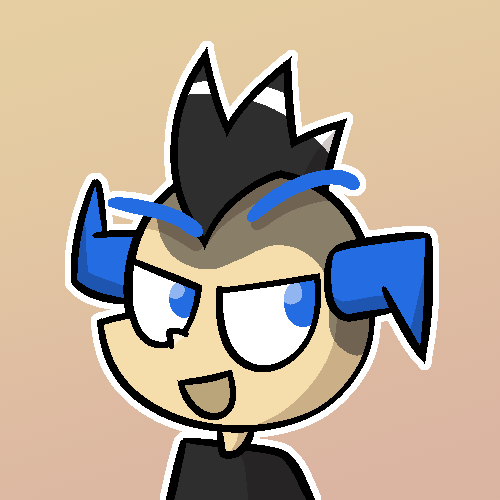
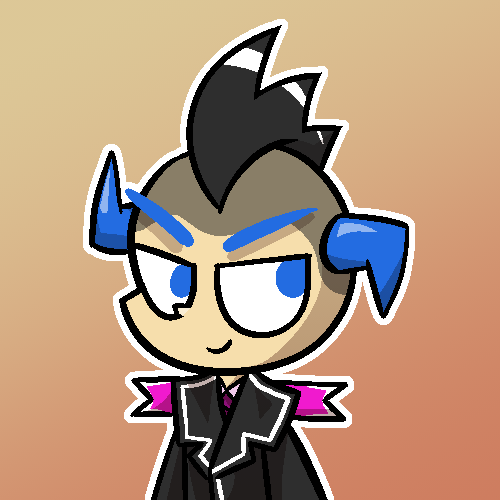
upd

diff --git a/css/characters.css b/css/characters.css
@@ -1,5 +1,6 @@
 h1,
 h2,
+h3,
 .attr>:nth-child(2n-1) {
 	color: var(--accent);
 }
@@ -47,8 +48,12 @@ blockquote {
 	object-fit: contain;
 }
 
-.card h3::before {
-	content: '';
+.card h3 {
+	color: var(--text);
+
+	&::before {
+		content: '';
+	}
 }
 
 .palette {

diff --git a/tir/stories/the-poker-spies.md b/tir/stories/the-poker-spies.md
@@ -62,7 +62,7 @@ This is still very brainstorm-y for now so bear with me! Any info subject to cha
 
 ## Start of the war
 
-Sky, having no experience in wartime state security — or state security in general for that matter, being freshly out of college and all. He was eager to work with his mentor Goose, mostly in interrogating the prisoners of war Bauhinia captured. When Goose was alone, the interrogations were messy, involved too much bleeding and screaming, and arguably counterproductive. With Sky, she was a lot more reserved, and Sky learned a lot.
+Sky, having no experience in wartime state security — or state security in general for that matter, being freshly out of training and all, a really new [Half-Noob](/world/bauhinia/mss/#rankings). He was eager to work with his mentor Goose, mostly in interrogating the prisoners of war Bauhinia captured. When Goose was alone, the interrogations were messy, involved too much bleeding and screaming, and arguably counterproductive. With Sky, she was a lot more reserved, and Sky learned a lot.
 
 And one day, they captured a Fantoni agent lurking near Bauhinian military forts, way behind the frontline. She was sent to Goose and Sky.
 

diff --git a/tir/world/bauhinia/mss.md b/tir/world/bauhinia/mss.md
@@ -24,6 +24,13 @@ Their boots — lemme ramble about the boots! They could be as quiet as you want
 
 That being said, most MSS agents operate in plain clothes, similar to how normal police wear uniforms and plainclothes don't.
 
+## Rankings
+
+- Noob: no white spots on shoulder pad, ranking only given to trainees.
+- Half-Noob: trainees who completed their initial training will all be given this rank.
+- Normal Rank: just a normal, average rank.
+- Old Grouch: given to senior officers, either because they want them to feel content and shut up ([Paperweight](/characters/paperweight/)) or they had made significant contributions ([Goose](/characters/goose/), [Sky](/characters/sky/)).
+
 ## Members
 
 <link rel="stylesheet" href="/css/characterspage.css">

diff --git a/tir/changelog/changelog.md b/tir/changelog/changelog.md
@@ -9,7 +9,10 @@ titlezh: 更新日志
 
 ## 2025-09-26
 
-- Moved the favorites leaderboard to https://tofutush.leprd.space!
+- Moved the favorites leaderboard to https://tofutush.leprd.space;
+- Edited `sky profile.png`;
+- Removed the "drawing permissions" section in character profiles and moved design notes to a subheading under "reference";
+	- My perms are still on [Artfight](https://artfight.net/~Tofutush);
 
 ## 2025-09-24
 
